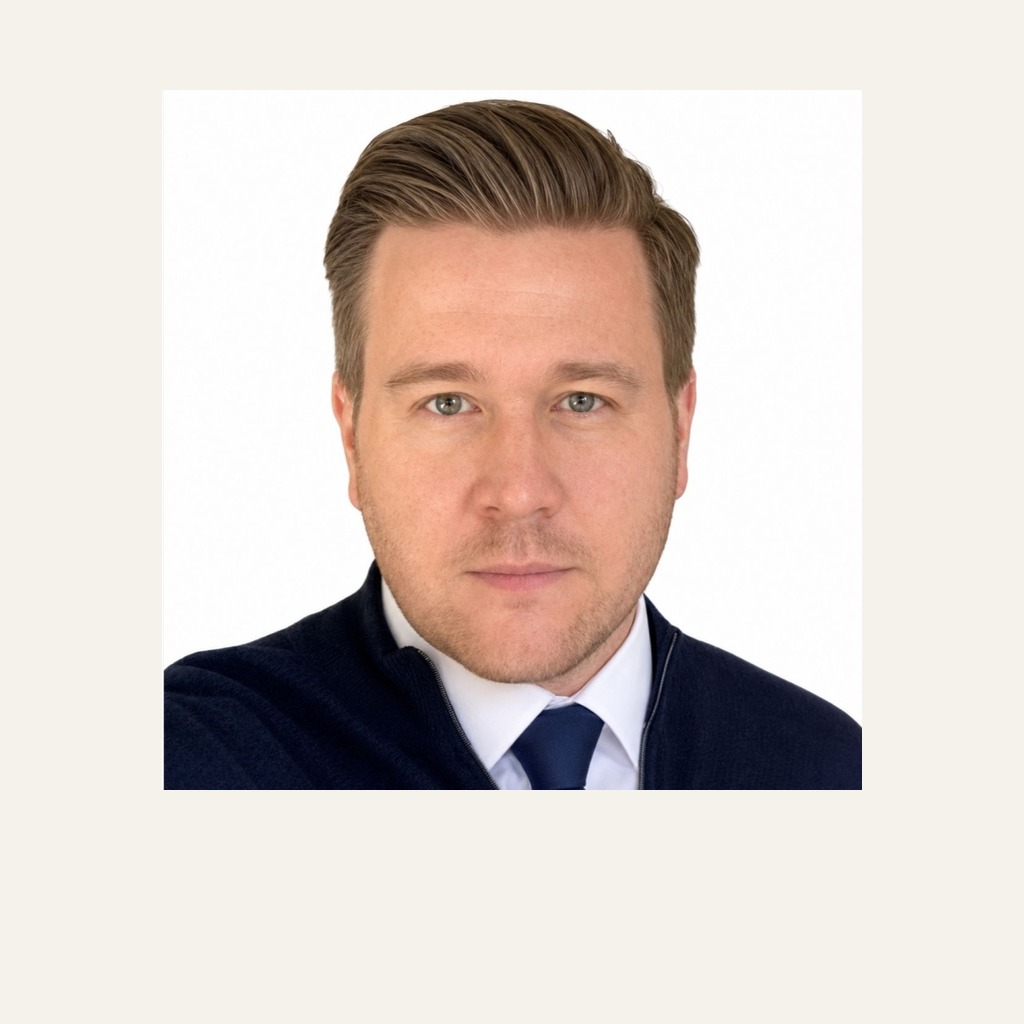
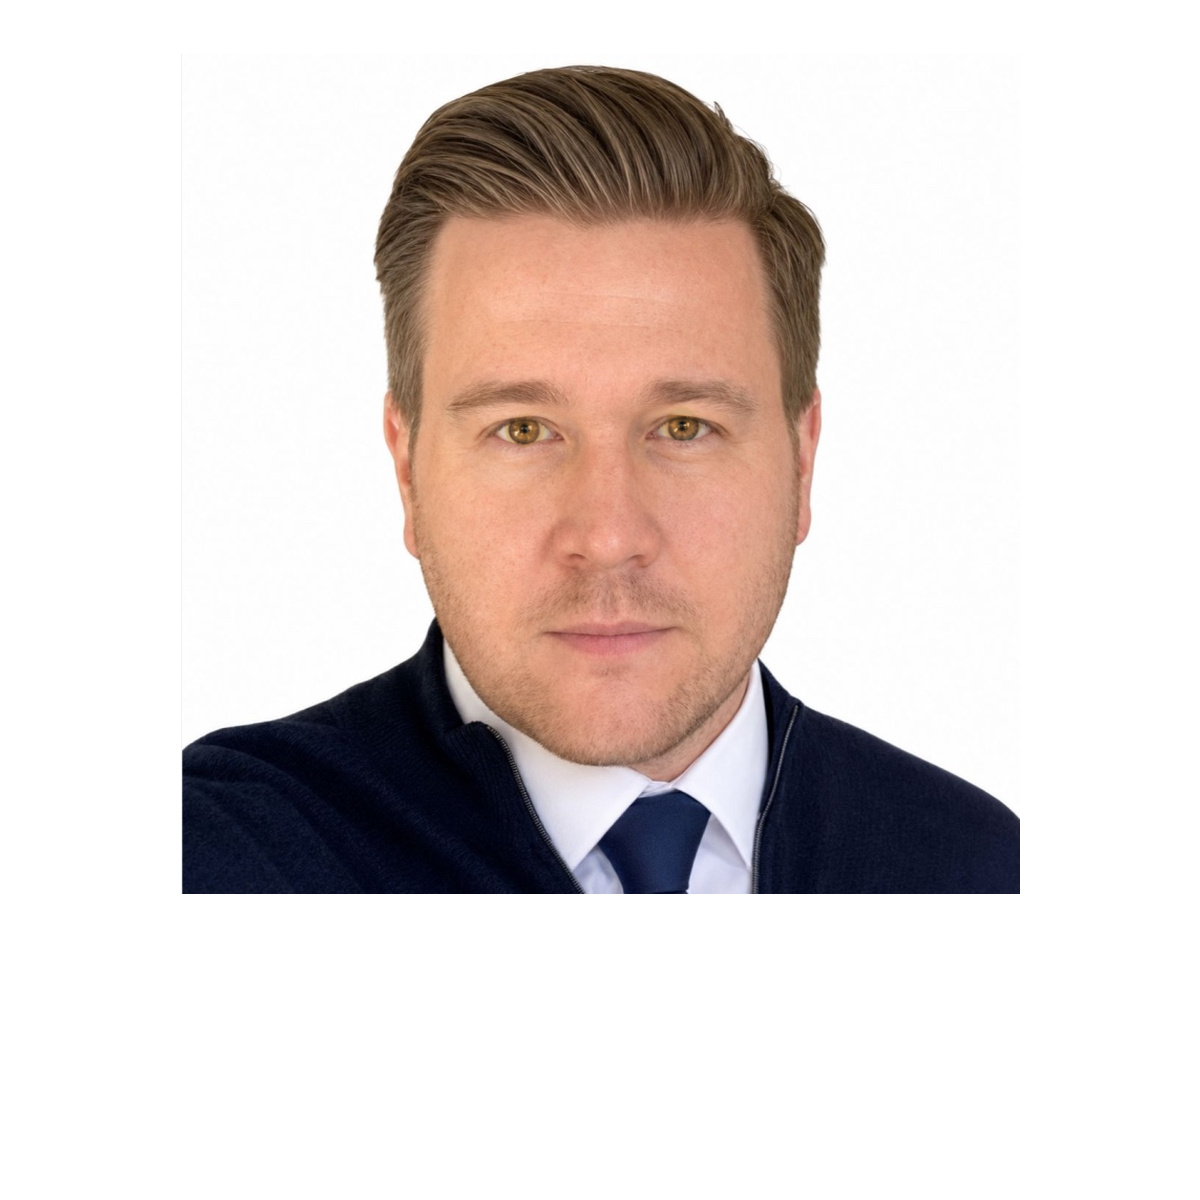
Update Karlo's team photo crop on the person page.

Changed region(s): [[0.125, 0.0312, 0.875, 0.7812]]

diff --git a/src/components/TeamMember.tsx b/src/components/TeamMember.tsx
@@ -23,7 +23,11 @@ const TeamMember: React.FC<TeamMemberProps> = ({
   const urlName = name.toLowerCase().replace(/,/g, '').replace(/\s+/g, '-');
   const isKarlo = name.startsWith('Karlo Definis');
   const objectPosition =
-    name === 'Delphine Filsack' ? 'center 30%' : isKarlo ? 'center 22%' : 'center 40%';
+    name === 'Delphine Filsack'
+      ? 'center 30%'
+      : isKarlo
+        ? 'center 30%'
+        : 'center 40%';
 
   return (
     <div className={cn("flex h-full flex-col items-center", className)}>
@@ -31,11 +35,15 @@ const TeamMember: React.FC<TeamMemberProps> = ({
         to={`/person/${urlName}`}
         className="relative flex h-full w-full max-w-[280px] flex-col bg-white rounded-2xl overflow-hidden group cursor-pointer shadow-card transition-[transform,box-shadow] duration-200 ease-out-strong active:scale-[0.97] motion-reduce:transition-none motion-reduce:active:scale-100 focus-visible:outline-none focus-visible:ring-2 focus-visible:ring-newtifi-navy focus-visible:ring-offset-2 fine:hover:-translate-y-1 fine:hover:shadow-card-hover"
       >
-        <div className="relative h-[240px] w-full shrink-0 overflow-hidden">
+        <div className="relative h-[240px] w-full shrink-0 overflow-hidden bg-white">
           <img
             src={imageSrc}
             alt={name}
-            className={cn('photo w-full object-cover', isKarlo ? 'h-full' : 'h-[360px]')}
+            className={cn(
+              'photo w-full object-cover',
+              // Slightly less aggressive crop so padded studio headshot shows more face
+              isKarlo ? 'h-[300px]' : 'h-[360px]',
+            )}
             style={{ objectPosition }}
           />
         </div>

diff --git a/src/pages/Person.tsx b/src/pages/Person.tsx
@@ -153,11 +153,10 @@ const Person = () => {
             className="photo aspect-[4/5] w-full max-w-[16rem] rounded-2xl object-cover shadow-card"
             style={{
               objectPosition:
-                member.name === 'Delphine Filsack'
+                member.name === 'Delphine Filsack' ||
+                member.name.startsWith('Karlo Definis')
                   ? 'center 30%'
-                  : member.name.startsWith('Karlo Definis')
-                    ? 'center 22%'
-                    : 'center 40%',
+                  : 'center 40%',
             }}
           />
           <div className="max-w-3xl space-y-4">
